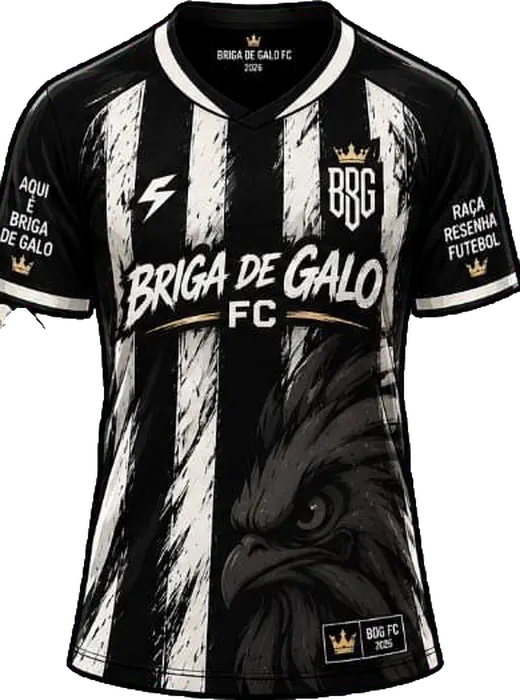
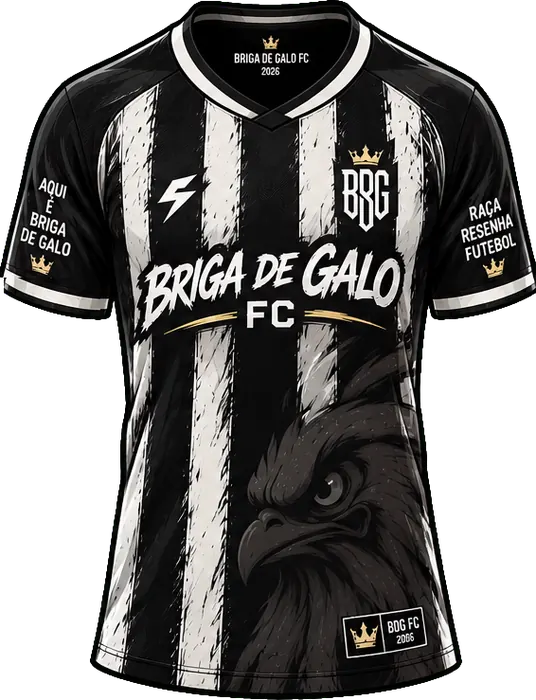
Briga de Galo FC: arte trocada pela 2a prancha do dono (escudo 280x360 29,7 KB, mascote 260x440 32,3 KB, camisa nova); manto remedido
Claude-Session: https://claude.ai/code/session_018Ap1zPCMVL9XeZJN3u93ZA

diff --git a/src/escalacao/manto.ts b/src/escalacao/manto.ts
@@ -20,7 +20,7 @@ export const MANTO_CONTAS: Record<string, [string, string]> = {
   'luizguilhermeps@hotmail.com': ['#F6BB06', '#053F42'], // 🧦 Jurubeba FC — amarelo e verde-petróleo, MEDIDOS na camisa que o dono mandou (02/09)
   'caiohcris@gmail.com': ['#084C2C', '#F3F1EC'], // 🐟 Bagres 1993 — verde-mato e branco, MEDIDOS na camisa que o dono mandou (mediana dos verdes e dos brancos do manto, 06/09). O DOURADO é a 3ª cor, em MANTO_TRI: é a moldura, a coroa e o louro do escudo
   'guiouriques@hotmail.com': ['#2186D9', '#080809'], // 🪟 Vidraceiro FC — azul-vidro e preto, MEDIDOS na camisa que o dono mandou (mediana dos azuis e dos pretos do manto, 05/09). O BRANCO é a 3ª cor, em MANTO_TRI: a camisa é listrada azul/preto com filete branco
-  'pedrovianacarneiroq@gmail.com': ['#0C0D0C', '#E8E5E0'], // 🐓 Briga de Galo FC — preto e branco, MEDIDOS na camisa que o dono mandou (mediana dos pretos, 74% do manto, e dos brancos das listras, 08/09). O DOURADO é a 3ª cor (MANTO_TRI): coroa, "FC" e o BDG do peito
+  'pedrovianacarneiroq@gmail.com': ['#0F0E0E', '#EAE5E1'], // 🐓 Briga de Galo FC — preto e branco, MEDIDOS na camisa que o dono mandou (2ª prancha; mediana dos pretos, 73% do manto, e dos brancos das listras, 08/09). O DOURADO é a 3ª cor (MANTO_TRI): coroa, "FC" e o BDG do peito
   'gaancaxd@gmail.com': ['#0D0C10', '#6E16C3'], // 🎮 Sistematizados FC — preto e roxo, MEDIDOS na camisa que o dono mandou (mediana dos pretos, 73% do manto, e dos roxos, 07/09). O BRANCO é a 3ª cor (MANTO_TRI)
   'jh9415474@gmail.com': ['#0A0A0A', '#E3E2E1'], // 🌑 Nova Eclipse FC — preto e branco, MEDIDOS na camisa que o dono mandou (mediana dos pretos, 72% do manto, e dos brancos das pinceladas, 07/09)
   'gustavo99828@gmail.com': ['#CD0C12', '#070505'], // 🐂 Final Boss FC — vermelho e preto, MEDIDOS na camisa que o dono mandou (mediana dos vermelhos e dos pretos do manto, 05/09). O BRANCO é a 3ª cor, em MANTO_TRI: a camisa dele é branca com faixa vermelha e preta
@@ -137,7 +137,7 @@ const MANTO_TRI: Record<string, string> = {
   bagres_bagre: '#D9A95D', // 🐟 Bagres 1993 (caiohcris) — 3ª cor DOURADA: a moldura, a coroa e o louro do escudo (medidas na arte dele, 06/09)
   vidraceiro_vidro: '#FFFFFF', // 🪟 Vidraceiro FC (guiouriques) — 3ª cor BRANCA: a camisa é listrada azul/preto com filete branco (medidas na arte dele, 05/09)
   sistematizados_streamer: '#F3F1F6', // 🎮 Sistematizados FC (gaancaxd) — 3ª cor BRANCA: os filetes e o nome na camisa (medidos na arte dele, 07/09)
-  brigadegalo_galo: '#AD8C56', // 🐓 Briga de Galo FC (pedrovianacarneiroq) — 3ª cor DOURADA: a coroa, o "FC" e o BDG da camisa (medida na arte dele, 08/09)
+  brigadegalo_galo: '#A38758', // 🐓 Briga de Galo FC (pedrovianacarneiroq) — 3ª cor DOURADA: a coroa, o "FC" e o BDG da camisa (medida na arte dele, 08/09)
   finalboss_touro: '#FFFFFF', // 🐂 Final Boss FC (gustavo99828) — 3ª cor BRANCA: a camisa é branca com faixa vermelha e preta (medidas na arte dele, 05/09)
   lluch_menino: '#FFFFFF', // 🏠 Esqueceram do Lluch FC — 3ª cor BRANCA: o manto é TRICOLOR listrado à moda São Paulo (vermelho/preto/branco), como o Diego corrigiu em 28/08
 }

diff --git a/src/escalacao/escudos.tsx b/src/escalacao/escudos.tsx
@@ -581,11 +581,11 @@ const stoccoEscudoRender = (size: number) => (
 const sistematizadosEscudoRender = (size: number) => (
   <img src={sistematizadosEscudoImg} height={size} width={Math.round(size * 311 / 360)} alt="Sistematizados FC" style={{ flex: 'none', display: 'block', objectFit: 'contain' }} />
 )
-// 🐓 Briga de Galo FC — 273x360 no arquivo, então a largura sai da PROPORÇÃO REAL
-// (nunca width={size} chutado). Arte do dono (pedrovianacarneiroq, 08/09): escudo
-// prata com os dois galos frente a frente, coroa e o BDG na base.
+// 🐓 Briga de Galo FC — 280x360 no arquivo, então a largura sai da PROPORÇÃO REAL
+// (nunca width={size} chutado). Arte do dono (pedrovianacarneiroq, 08/09, 2ª
+// prancha): escudo preto e branco com os dois galos frente a frente e coroa prata.
 const brigaDeGaloEscudoRender = (size: number) => (
-  <img src={brigaDeGaloEscudoImg} height={size} width={Math.round(size * 273 / 360)} alt="Briga de Galo FC" style={{ flex: 'none', display: 'block', objectFit: 'contain' }} />
+  <img src={brigaDeGaloEscudoImg} height={size} width={Math.round(size * 280 / 360)} alt="Briga de Galo FC" style={{ flex: 'none', display: 'block', objectFit: 'contain' }} />
 )
 // 🌑 Nova Eclipse FC — 241x360 no arquivo, então a largura sai da PROPORÇÃO REAL
 // (nunca width={size} chutado). Arte do dono (jh9415474, 07/09): escudo prata

diff --git a/src/escalacao/mascotes.tsx b/src/escalacao/mascotes.tsx
@@ -564,11 +564,11 @@ export const MASCOTES: Record<string, ReactNode> = {
   sistematizados_streamer: (
     <img src={sistematizadosMascoteImg} height={176} width={Math.round(176 * 271 / 440)} alt="O Sistematizado — Sistematizados FC" style={{ flex: 'none', display: 'block', objectFit: 'contain' }} />
   ),
-  // 🐓 O Galo — Briga de Galo FC (pedrovianacarneiroq, 08/09). 242x440 no arquivo,
-  // então a largura sai da PROPORÇÃO REAL (nunca width={size} chutado). Galo de
-  // crista vermelha, camisa listrada e punhos fechados.
+  // 🐓 O Galo — Briga de Galo FC (pedrovianacarneiroq, 08/09, 2ª prancha). 260x440
+  // no arquivo, então a largura sai da PROPORÇÃO REAL (nunca width={size} chutado).
+  // Galo de crista vermelha, bico aberto, camisa listrada e punhos fechados.
   brigadegalo_galo: (
-    <img src={brigaDeGaloMascoteImg} height={176} width={Math.round(176 * 242 / 440)} alt="O Galo — Briga de Galo FC" style={{ flex: 'none', display: 'block', objectFit: 'contain' }} />
+    <img src={brigaDeGaloMascoteImg} height={176} width={Math.round(176 * 260 / 440)} alt="O Galo — Briga de Galo FC" style={{ flex: 'none', display: 'block', objectFit: 'contain' }} />
   ),
   // 🌑 O Eclipse — Nova Eclipse FC (jh9415474, 07/09). 245x440 no arquivo, então a
   // largura sai da PROPORÇÃO REAL (nunca width={size} chutado).

diff --git a/docs/pendencias.md b/docs/pendencias.md
@@ -169,14 +169,16 @@ Grana. E Vasco da Grana coloque na série D no lugar de um bot"*.
   `DIVISION_TEAMS.D`). **Sem OLD_NAME** nos dois casos (mesma regra do
   Murriz/Marreco/GuGu: mudou de divisão, não de nome). Save antigo com o Zênite
   segue com ele; a divisão de bot num save vem do `placements`.
-- **Arte** (prancha única em fundo verde-neon, 1080×720): o galo estava com os
-  punhos NA FRENTE do escudo e da camisa. Separei por chroma + máscara dos punhos
-  (cor creme) e reconstruí a borda do escudo e o canto da manga **por espelho**
-  (os dois são simétricos). Escudo 273×360 · 27,0 KB · mascote 242×440 · 32,8 KB
-  = **59,8 KB de 75**. Camisa em `scripts/kits/` (só do post). Conferido sobre
-  roxo e creme.
-- **Manto** `['#0C0D0C', '#E8E5E0']` (preto 74% + branco das listras), 3ª cor
-  dourada `#AD8C56` em `MANTO_TRI` (coroa, "FC", BDG).
+- **Arte**: o Diego mandou DUAS pranchas em verde-neon; vale a **2ª** (1536×1024,
+  *"Segue novamente"*), com escudo redesenhado (galos frente a frente, coroa prata)
+  e o galo de bico aberto. Na 2ª só o punho direito toca a manga da camisa:
+  separei por chroma + máscara do punho (cor creme) e reconstruí o canto da manga
+  **por espelho** (a camisa é simétrica). Escudo 280×360 · 29,7 KB · mascote
+  260×440 · 32,3 KB = **62,0 KB de 75**. Camisa em `scripts/kits/` (só do post).
+  Conferido sobre roxo e creme. (A 1ª prancha, 1080×720 com os punhos na frente
+  do escudo E da camisa, foi publicada por ~15 min e substituída.)
+- **Manto** `['#0F0E0E', '#EAE5E1']` (preto 73% + branco das listras), 3ª cor
+  dourada `#A38758` em `MANTO_TRI` (coroa, "FC", BDG).
 - **Mascote** `brigadegalo_galo` — "O Galo" (⚠ nome PROVISÓRIO, a arte veio sem
   nome). Carimba o gol; sem animação própria (cai no `coCarimba`).
 - **Código:** `data.ts` · `escudos.tsx` · `mascotes.tsx` · `apoio.tsx` (ouro +
